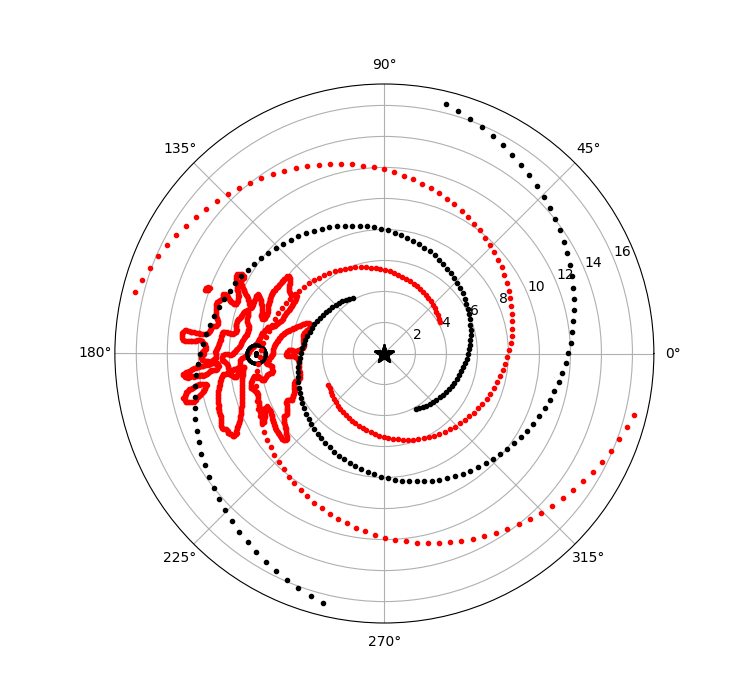
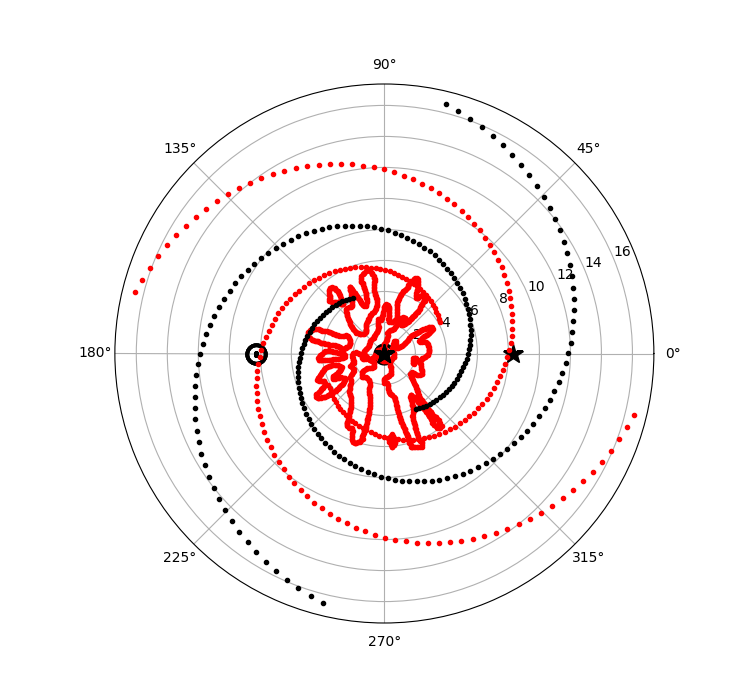
update

Changed region(s): [[0.2453, 0.39, 0.6133, 0.66], [0.6747, 0.48, 0.7053, 0.54]]

diff --git a/test.py b/test.py
@@ -66,7 +66,7 @@ if single_extract_plot:
 	plt.savefig(figdir_primer+'/single_model_single_arm_demo.png')
 
 
-single_model_single_arm = True
+single_model_single_arm = False
 if single_model_single_arm:
 		
 	print('plotting figures for primer')
@@ -97,7 +97,7 @@ if single_model_single_arm:
 	fig.tight_layout()
 	plt.savefig(figdir_primer+'/single_model_single_arm.png')
 	
-single_model_all_arms = True
+single_model_all_arms = False
 if single_model_all_arms:
 		
 	print('plotting figures for primer')
@@ -129,7 +129,7 @@ if single_model_all_arms:
 	plt.savefig(figdir_primer+'/single_model_all_arms.png')
 	
 
-single_model_polar_hou = True
+single_model_polar_hou = False
 if single_model_polar_hou:
 
 	print('plotting figures for primer')
@@ -240,16 +240,17 @@ check_poggio = True
 if check_poggio:
 
 	print('testing gaiaPVP')
-	xsun=-8.277
+	xsun= -8.277
 	spirals = sp.main_(xsun=xsun)
 	use_model1 = 'Poggio_cont_2021'		
 	use_model2 = 'GaiaPVP_cont_2022'	
 	use_model3 = 'Drimmel_NIR_2000'	
-	
+	use_model4 = 'Levine_2006'	
+	use_arm = 'all'
 	spirals.getinfo(model=use_model1)
 				
 	plt.close('all')
-	plotattrs = {'plot':True,'coordsys': 'GC','markersize':15,'polargrid':True,'colour_contour':'red'}	
+	plotattrs = {'plot':True,'coordsys': 'GC','markersize':15,'polargrid':True}	
 	spirals.readout(plotattrs,model=use_model1,arm='all')	
 	plotattrs = {'plot':True,'coordsys': 'GC','markersize':15,'polargrid':True,'colour_contour':'green'}	
 	spirals.readout(plotattrs,model=use_model2,arm='all')	
@@ -259,19 +260,42 @@ if check_poggio:
 
 	plt.close('all')	
 	fig, ax = plt.subplots(figsize=(7.5,7.),subplot_kw=dict(projection="polar"))
-	plotattrs = {'plot':True,'coordsys':'GC','markersize':15,'polarproj':True,'armcolour':'red'}	
-	spirals.readout(plotattrs,model=use_model1,arm='all')
+	# # # plotattrs = {'plot':True,'coordsys':'GC','markersize':15,'polarproj':True,'armcolour':'red'}	
+	# # # spirals.readout(plotattrs,model=use_model1,arm=use_arm)
+	# # # plotattrs = {'plot':True,'coordsys':'GC','markersize':15,'markSunGC':True,'polarproj':True,'armcolour':'blue'}
+	# # # spirals.readout(plotattrs,model=use_model2,arm=use_arm)
+	
+	# # # plotattrs = {'plot':True,'coordsys':'GC','markersize':15,'markSunGC':True,'polarproj':True}
+	# # # spirals.readout(plotattrs,model=use_model3,arm='1_arm')
 
-	plotattrs = {'plot':True,'coordsys':'GC','markersize':15,'markSunGC':True,'polarproj':True}
-	spirals.readout(plotattrs,model=use_model3,arm=use_arm)
 
+	plotattrs = {'plot':True,'coordsys':'HC','markersize':15,'markSunGC':True,'polarproj':True,'armcolour':'red'}
+	spirals.readout(plotattrs,model=use_model2,arm=use_arm)
+	plotattrs = {'plot':True,'coordsys':'GC','markersize':15,'polarproj':True}	
+	spirals.readout(plotattrs,model=use_model3,arm='all')
 
 	plt.savefig(figdir_primer+'/testgc.png')
 
-	plt.close('all')	
-	fig, ax = plt.subplots(figsize=(7.5,7.),subplot_kw=dict(projection="polar"))
-	plotattrs = {'plot':True,'coordsys':'HC','markersize':15,'polarproj':True,'armcolour':'red'}	
-	spirals.readout(plotattrs,model=use_model2,arm='all')
+	# # plt.close('all')	
+	# # fig, ax = plt.subplots(figsize=(7.5,7.),subplot_kw=dict(projection="polar"))
+	# # plotattrs = {'plot':True,'coordsys':'HC','markersize':15,'polarproj':True,'armcolour':'red'}	
+	# # spirals.readout(plotattrs,model=use_model2,arm='all')
+	# # spirals.readout(plotattrs,model=use_model3,arm='all')
+	
 
-	plt.savefig(figdir_primer+'/testhc.png')
+	# # plt.savefig(figdir_primer+'/testhc.png')
+	
+
+	
+	# # use_model1 = 'Reid_2019'	
+	# # use_model2 = 'Drimmel_Ceph_2024'	
+
+
+	# # plt.close('all')	
+	# # fig, ax = plt.subplots(figsize=(7.5,7.),subplot_kw=dict(projection="polar"))
+	# # plotattrs = {'plot':True,'coordsys':'HC','markersize':15,'polarproj':True}	
+	# # spirals.readout(plotattrs,model=use_model1,arm='all')
+	# # spirals.readout(plotattrs,model=use_model2,arm='all')
+
+	# # plt.savefig(figdir_primer+'/test.png')
 	

diff --git a/dtools.py b/dtools.py
@@ -144,7 +144,10 @@ def add_polargrid(plotattrs,rlevels=12,xmin=-10,xmax=10,ymin=-10,ymax=10,modrec=
 
 def _polarproj(spimod,plotattrs):		
 
-	if plotattrs['plot'] and plotattrs['polarproj'] and plotattrs['coordsys'].lower()=='gc':												
+	# add raisewarning armcolour
+
+	if plotattrs['plot'] and plotattrs['polarproj'] and plotattrs['coordsys'].lower()=='gc':	
+													
 		plt.plot(0.,0.,marker='*',markersize=plotattrs['markersize'],color='black')		
 		plt.plot(np.radians(180.),abs(spimod.xsun),marker=r'$\odot$',markersize=plotattrs['markersize'],color='black')				
 		plt.plot(np.radians(spimod.dout['phi4']),spimod.dout['rgc'],'.',color=plotattrs['armcolour'])	

diff --git a/SpiralMap.py b/SpiralMap.py
@@ -7,9 +7,12 @@ dataloc = root_+'/datafiles'
 #--------------------------------------------       
 
 ### TO do:
+#1 where does the code break
+#2 consistent colours for similar arms
 # save limits for individual arms 
 # add display for default colours
 # Rsun instead of xsun
+# docstrings cleanup
 ####################################
 
 class spiral_poggio_maps(object):

diff --git a/sanity.py b/sanity.py
@@ -1,0 +1,12 @@
+
+
+from SpiralMap import *
+import SpiralMap as sp
+
+import putil
+
+
+figdir_primer = 'figdir_primer'
+os.system('rm -rf '+figdir_primer); os.system('mkdir '+figdir_primer)
+plt.ion()
+	
